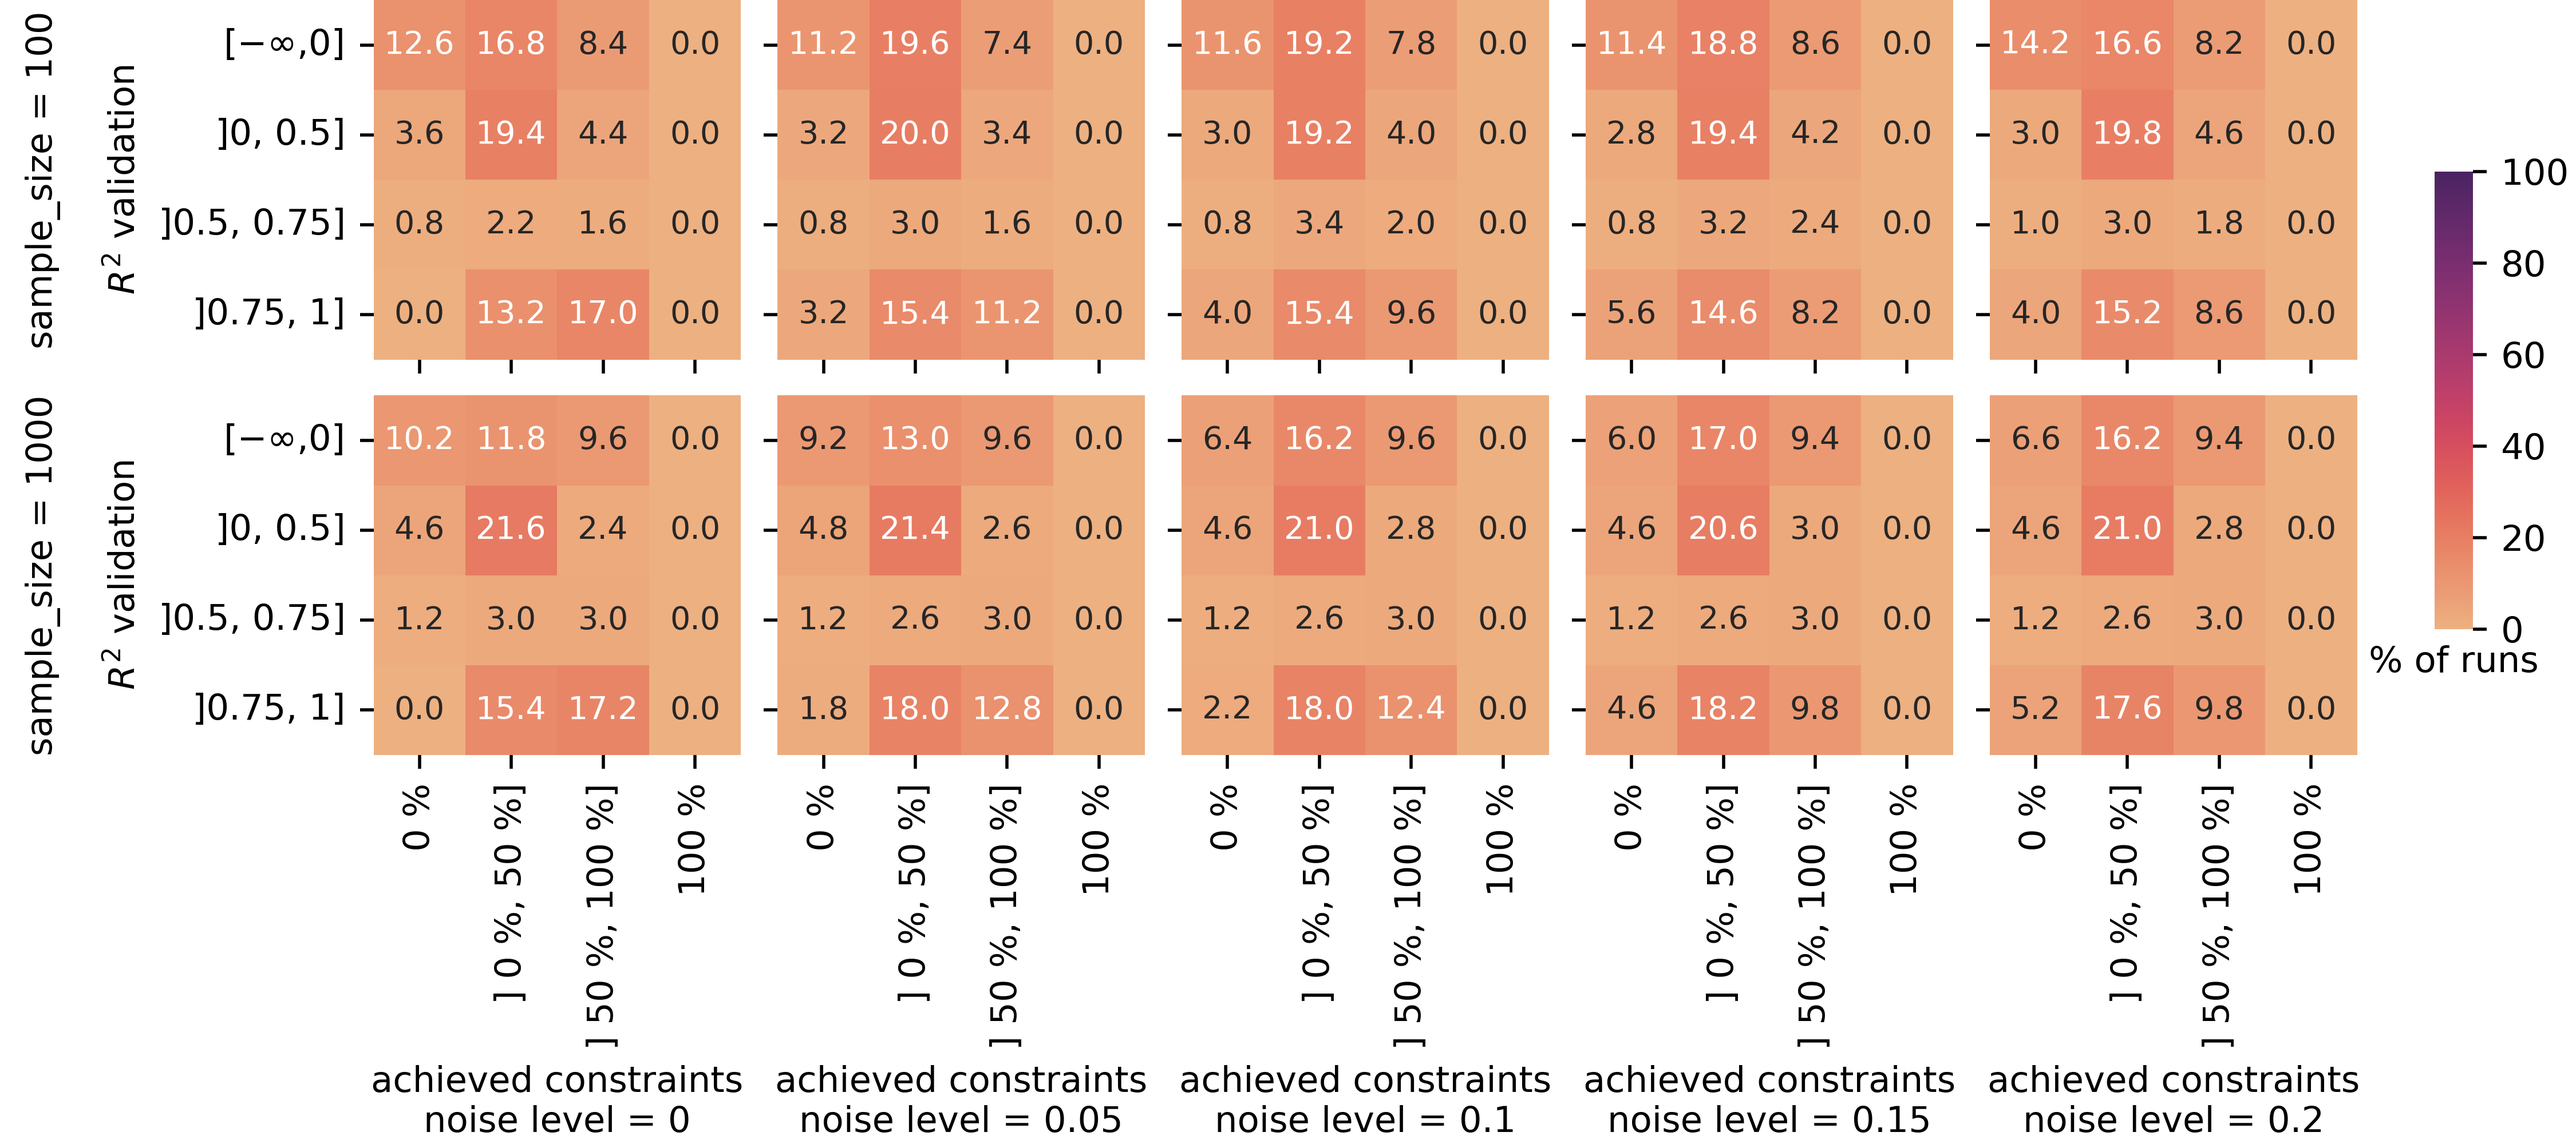
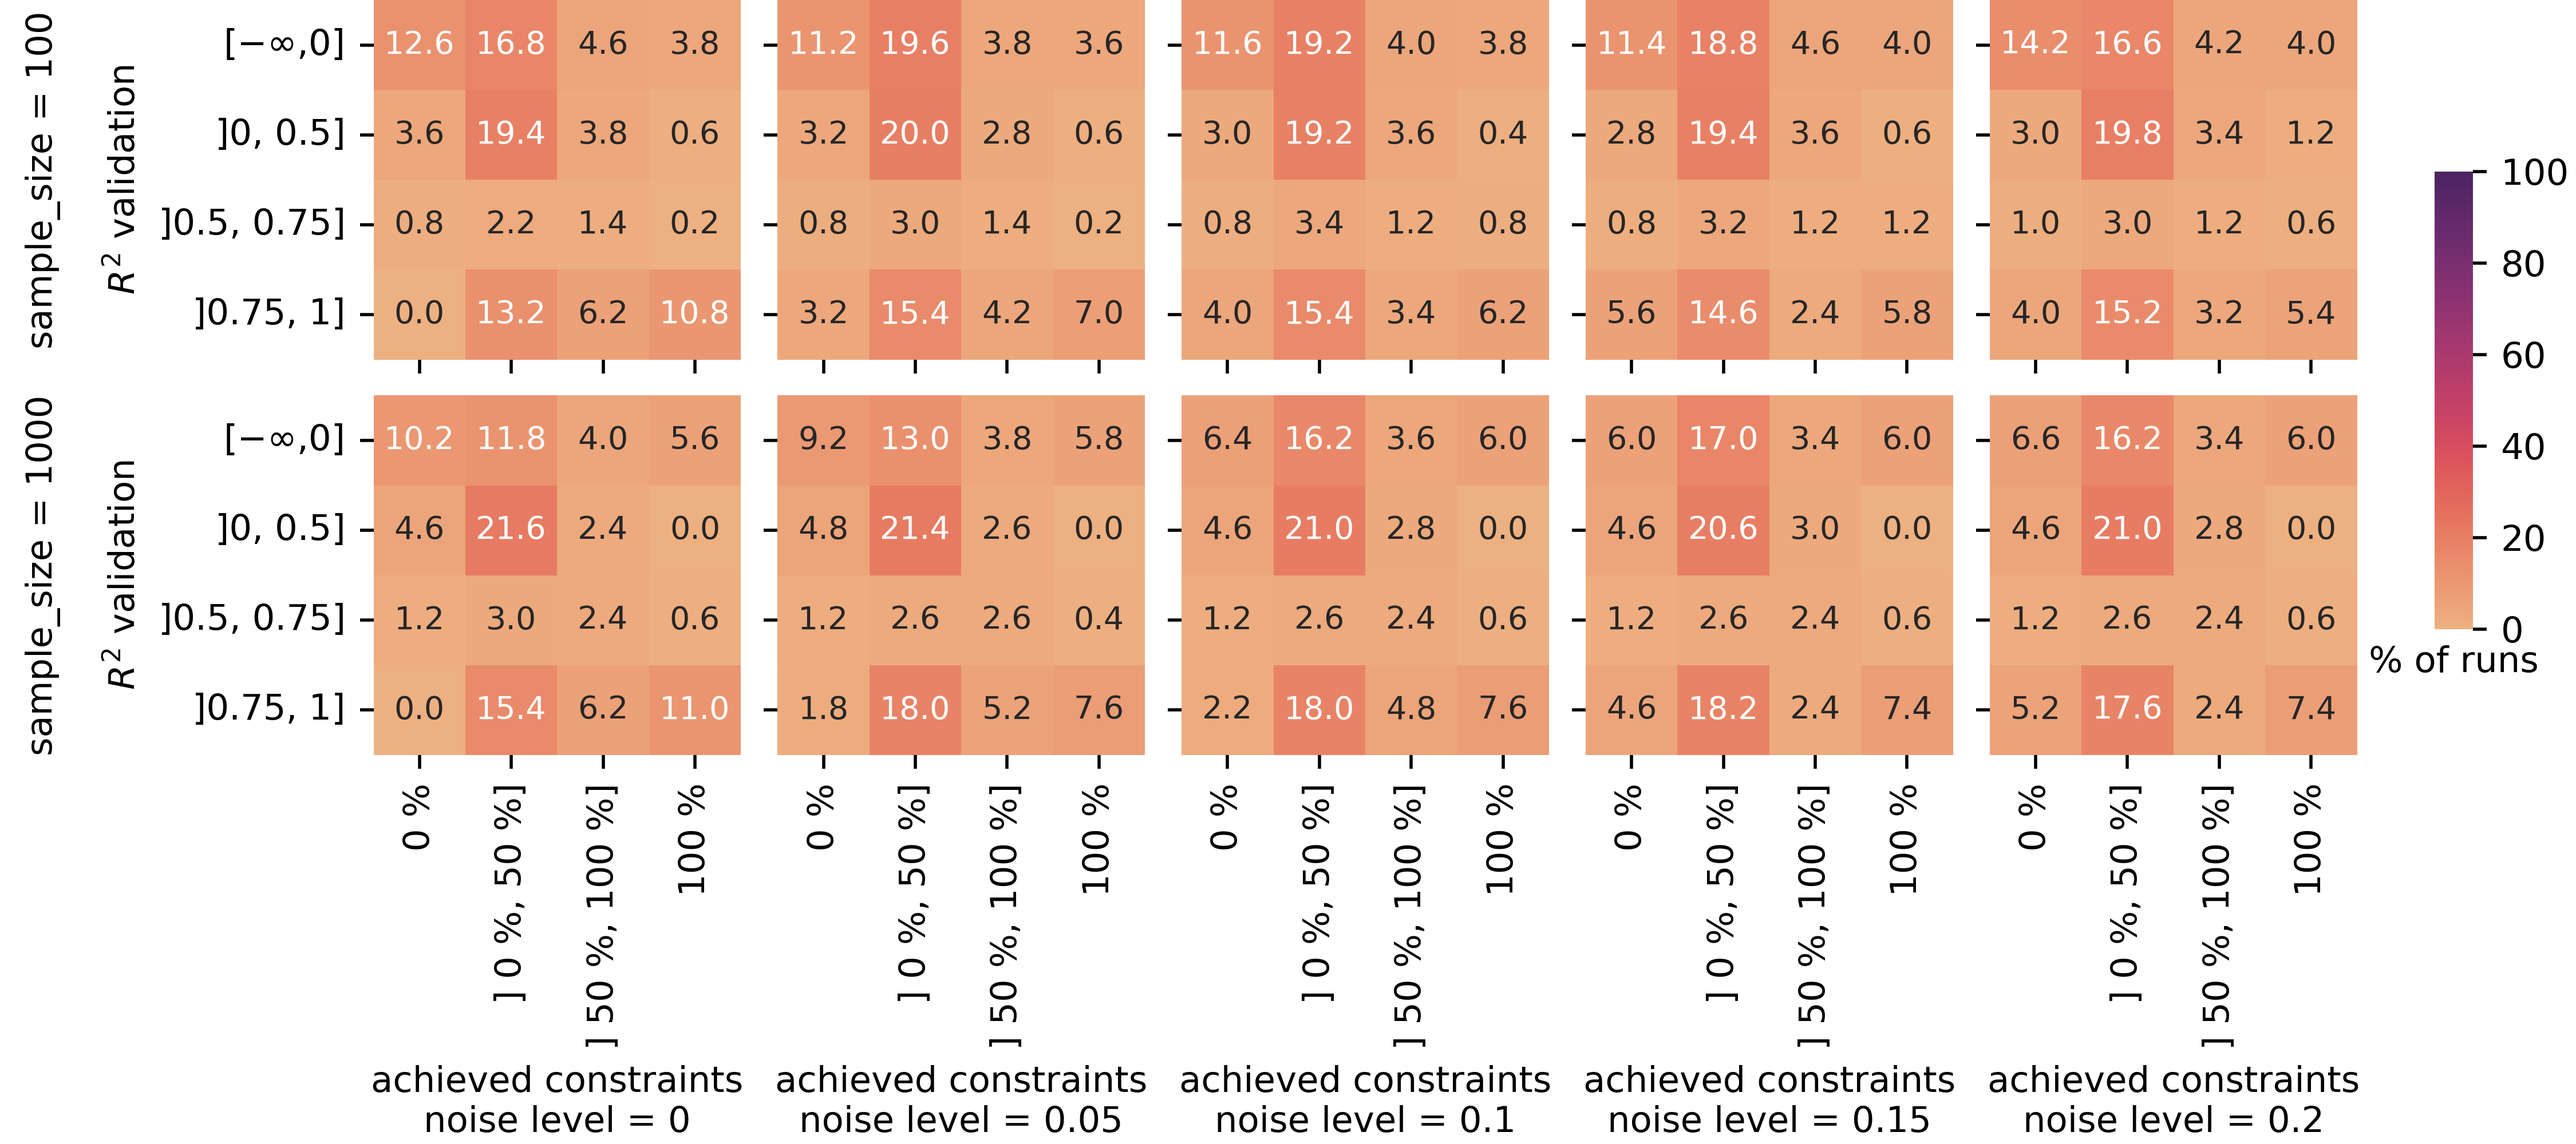
fix bug with wrong category assignment for heatmap

diff --git a/experiments/visualization/14-heatmap.py b/experiments/visualization/14-heatmap.py
@@ -56,7 +56,7 @@ def GetConstraintScore(row):
     return ConstraintScoreOrder[0]
   elif(row['ConstraintsAchievedScaled'] <= 0.5):
     return ConstraintScoreOrder[1]
-  elif(row['ConstraintsAchievedScaled'] <= 1):
+  elif(row['ConstraintsAchievedScaled'] < 1):
     return ConstraintScoreOrder[2]
   elif(row['ConstraintsAchievedScaled'] == 1):
     return ConstraintScoreOrder[3]
